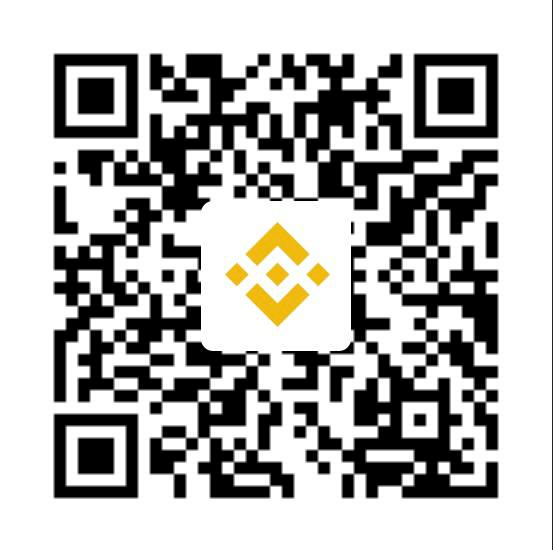
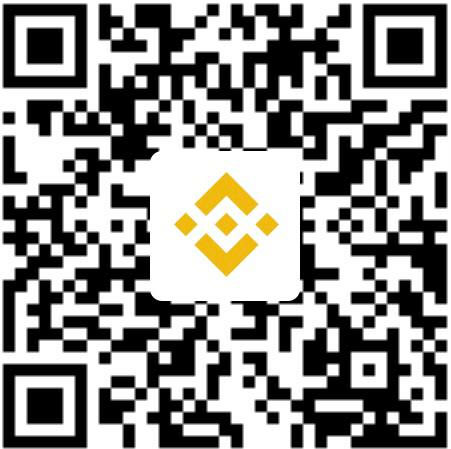
Replace Binance QR with cropped version

diff --git a/README.en.md b/README.en.md
@@ -305,7 +305,7 @@ If Obhodiq was useful to you and you want to support further development, you ca
       <img src="images/support-usdt-bep20.png" alt="QR USDT BEP20" width="200">
     </td>
     <td align="center" width="33%">
-      <img src="images/support-binance.png" alt="QR Binance Pay" width="240">
+      <img src="images/support-binance.png" alt="QR Binance Pay" width="200">
     </td>
   </tr>
   <tr>

diff --git a/README.md b/README.md
@@ -316,7 +316,7 @@ apk del obhodiq
       <img src="images/support-usdt-bep20.png" alt="QR USDT BEP20" width="200">
     </td>
     <td align="center" width="33%">
-      <img src="images/support-binance.png" alt="QR Binance Pay" width="240">
+      <img src="images/support-binance.png" alt="QR Binance Pay" width="200">
     </td>
   </tr>
   <tr>
